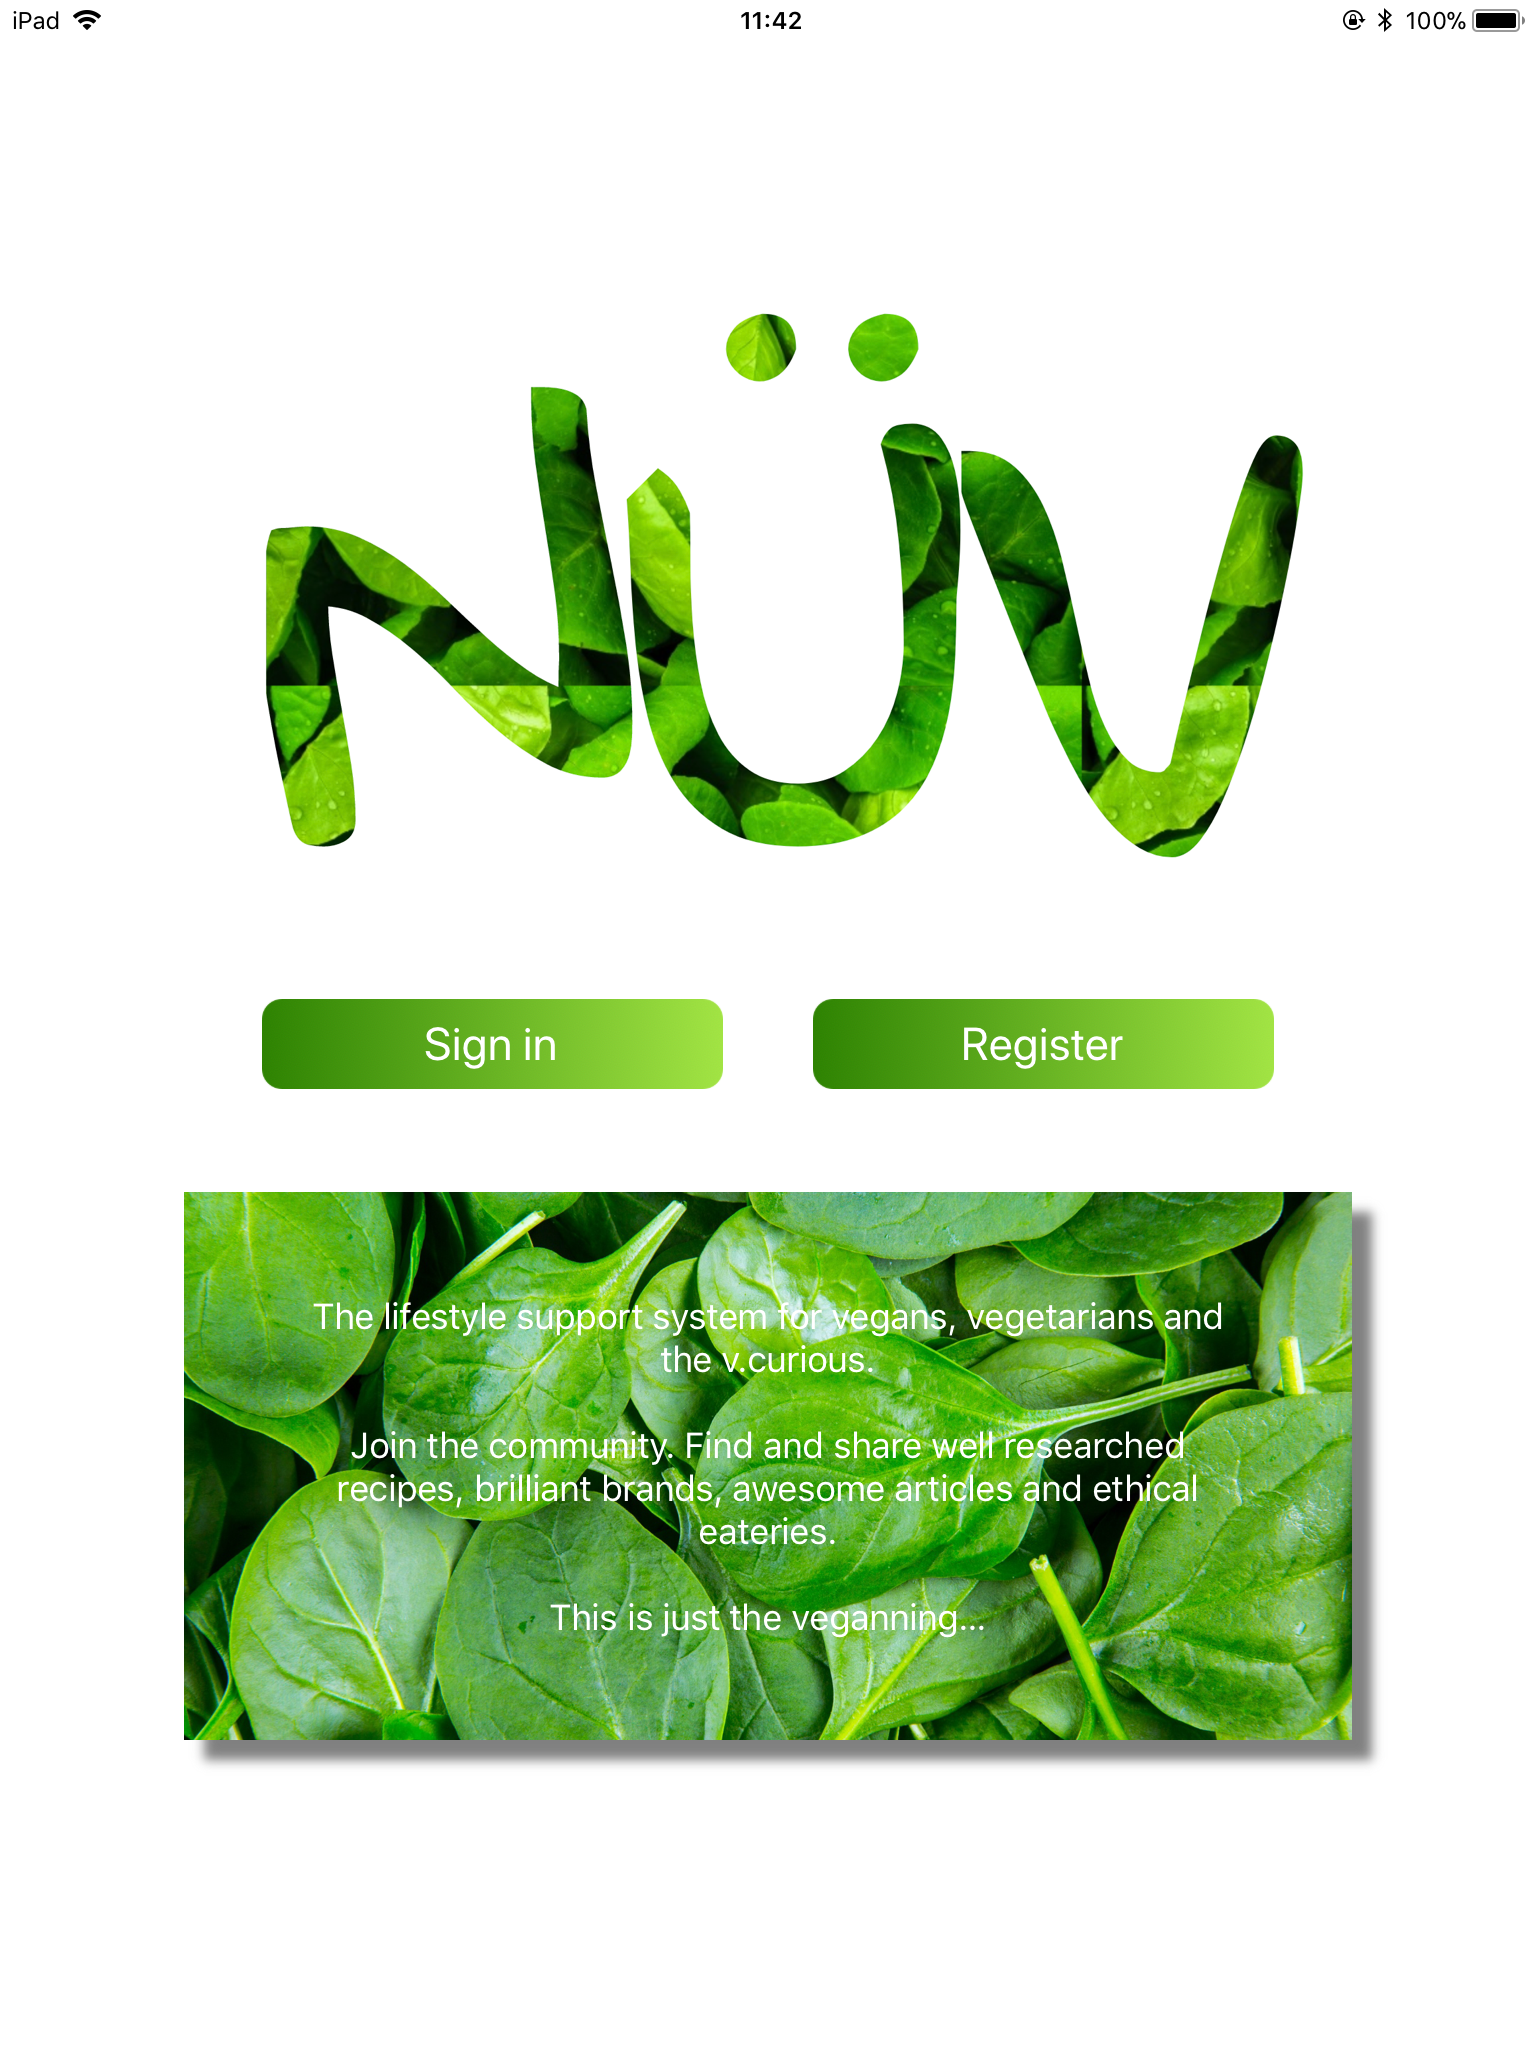
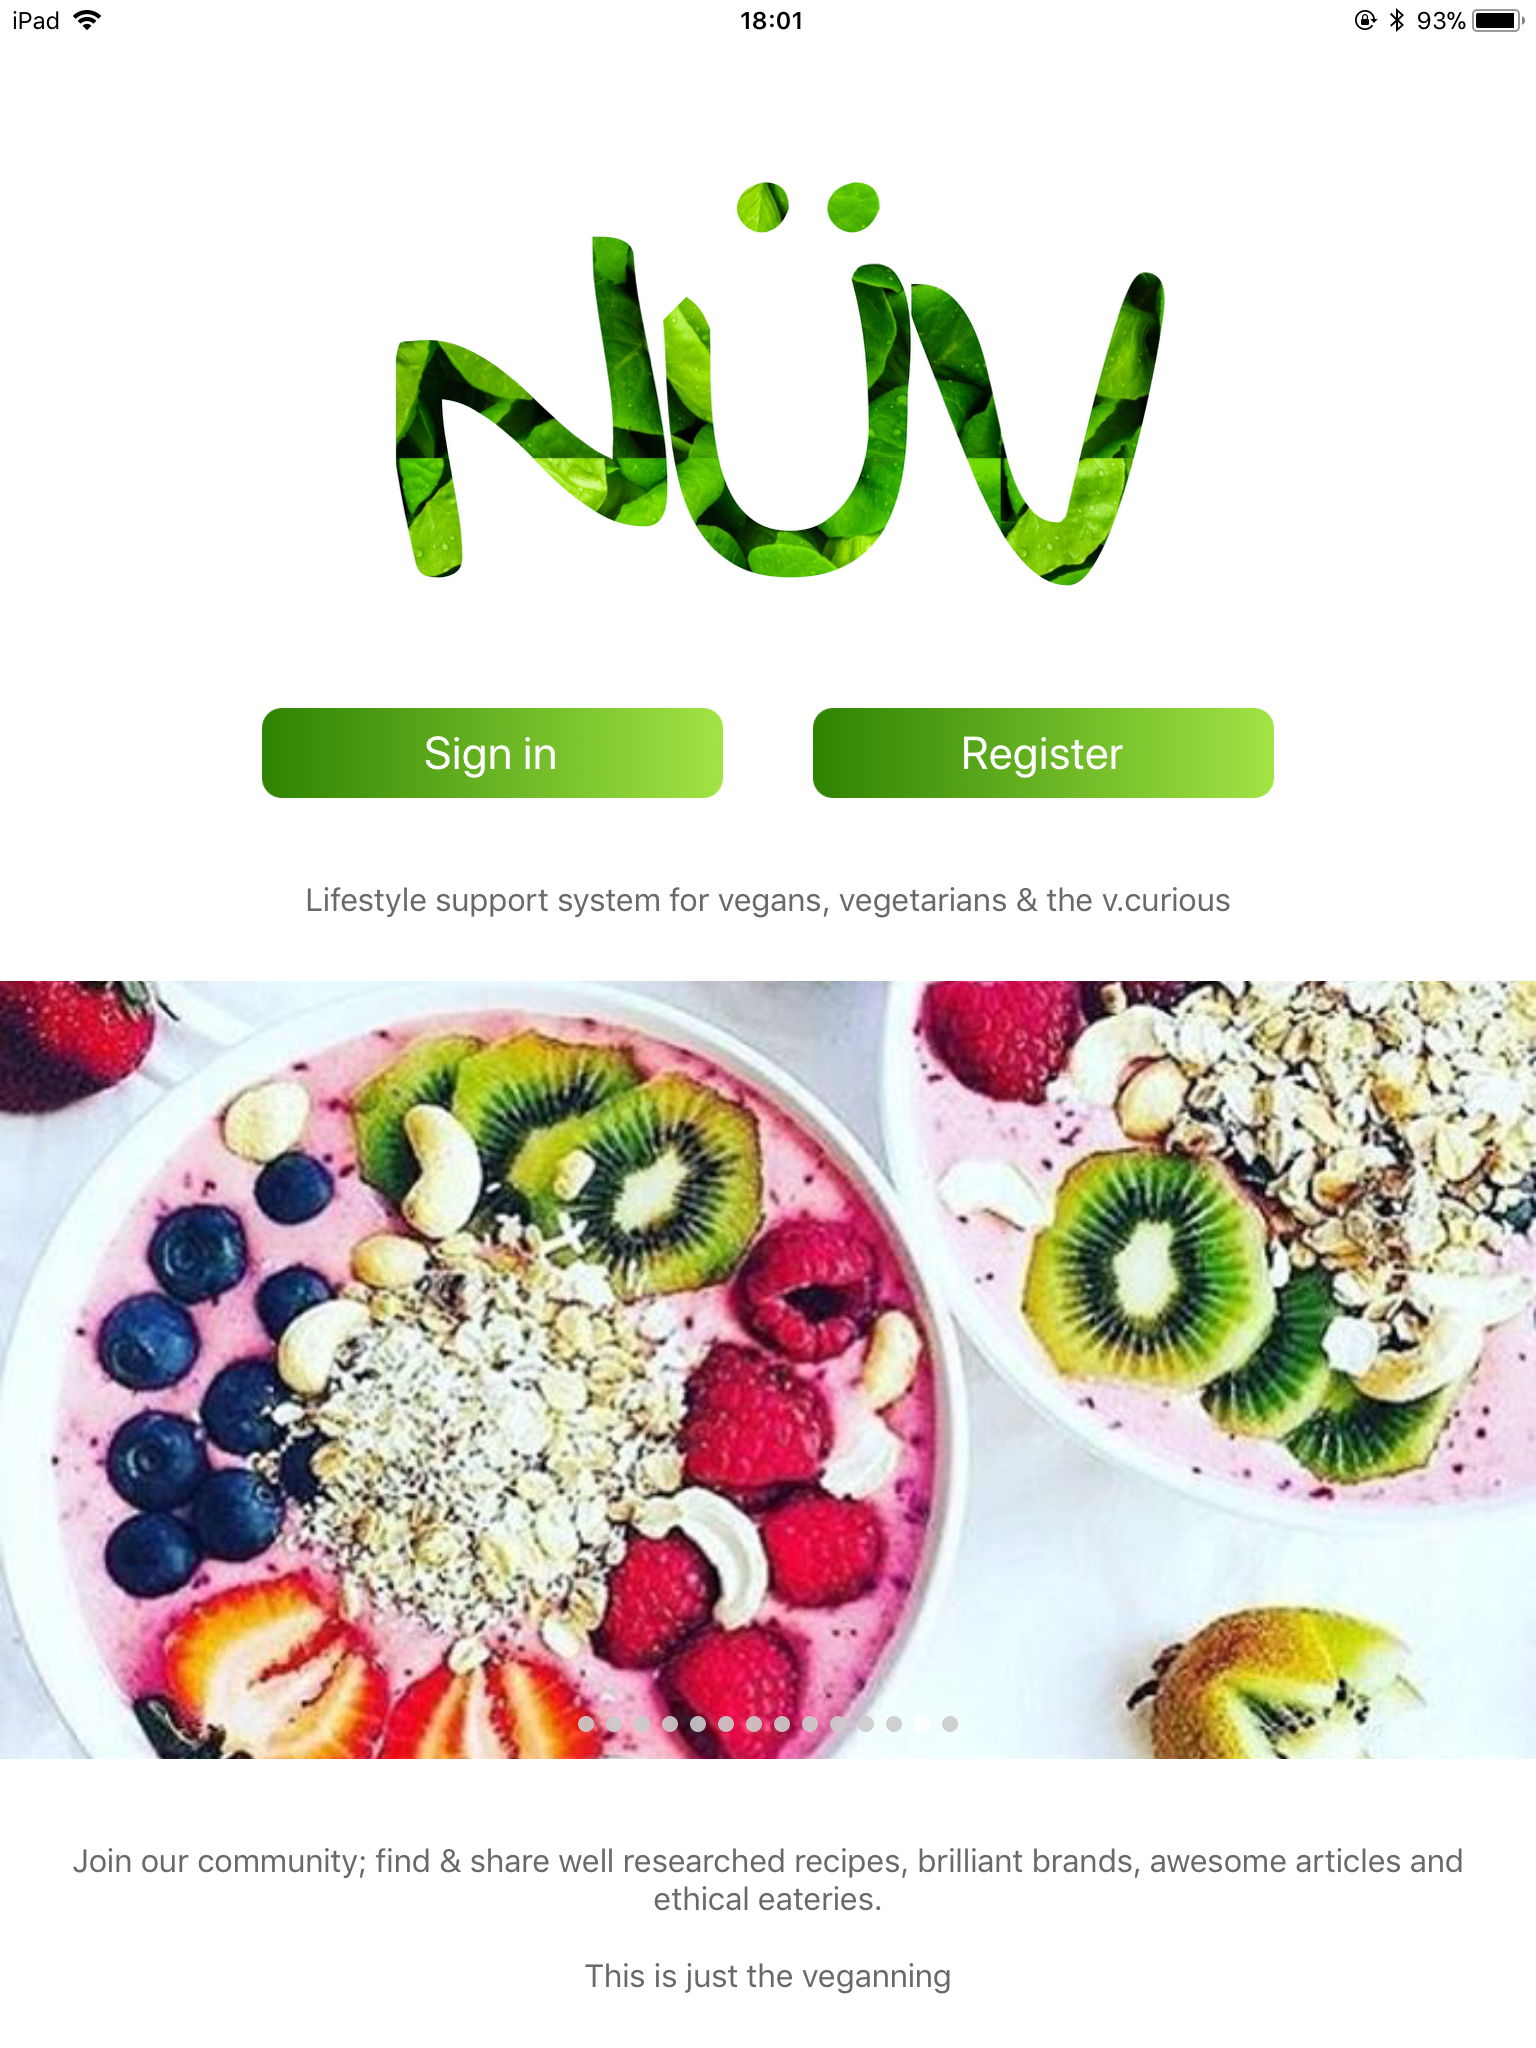
Add updated image with vegan-themed carousel

diff --git a/src/components/NuVCarousel.js b/src/components/NuVCarousel.js
@@ -3,8 +3,7 @@ import Arrow from './Arrow.js'
 import $ from 'jquery';
 import Background from '../images/fast-forward.png'
 
-const nuvUrls = ["../images/nuv01.png", "../images/nuv02.png", '../images/nuv03.png', '../images/nuv04.png', '../images/nuv05.png', '../images/nuv06.png', '../images/nuv07.png', '../images/nuv08.png', '../images/nuv09.png']
-
+const nuvUrls = ['../images/nuv09.png', "../images/nuv01.png", "../images/nuv02.png", '../images/nuv03.png', '../images/nuv04.png', '../images/nuv05.png', '../images/nuv06.png', '../images/nuv07.png', '../images/nuv08.png']
 
 class NuVCarousel extends React.Component {
 
